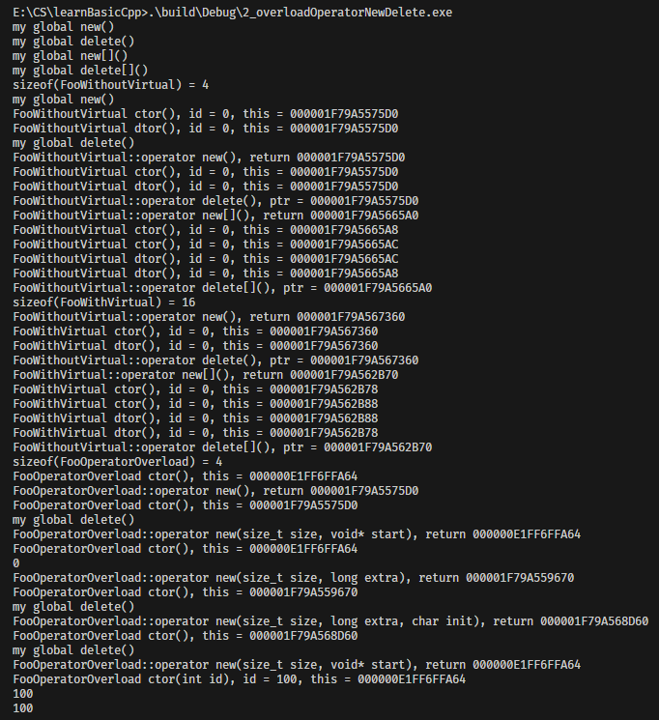
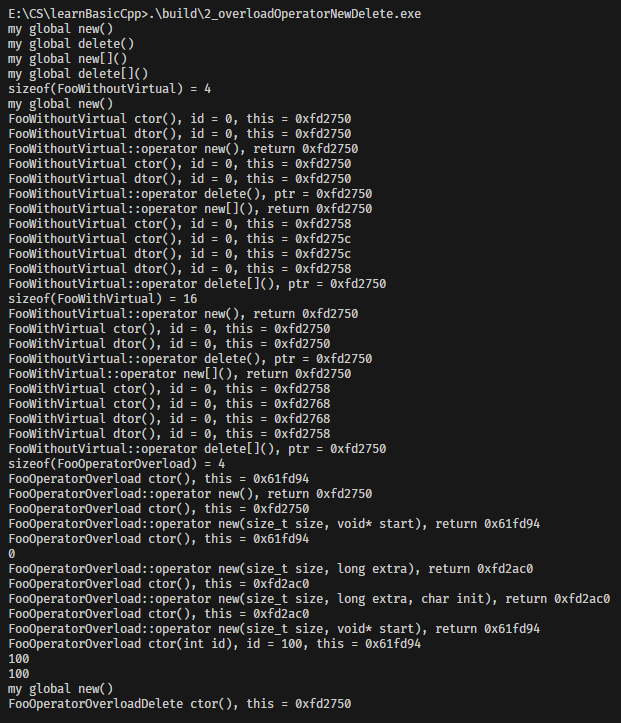
[add]7_newhandlerAndNothrow

diff --git a/MemoryManagement_Houjie/2_overloadOperatorNewDelete/main.cpp b/MemoryManagement_Houjie/2_overloadOperatorNewDelete/main.cpp
@@ -141,6 +141,28 @@ public:
     }
 };
 
+class FooOperatorOverloadDefaultDelete
+{
+private:
+    int id;
+
+public:
+    FooOperatorOverloadDefaultDelete() : id(0) { cout << "FooOperatorOverloadDelete ctor(), this = " << this << endl; }
+
+public:
+// 要求编译器生成默认的类成员版 operator new
+#ifdef _MSC_VER
+    static void *operator new(std::size_t size) noexcept(false);
+    static void operator delete(void *ptr) noexcept;
+#endif
+    // 错误写法：测试g++和MSVC都编译报错
+    // static void *operator new(size_t size) noexcept(false) = default; // default;
+    // static void operator delete(void *ptr) noexcept = default;        // default;
+
+    static void *operator new[](size_t size) noexcept(false) = delete; // delete;
+    static void operator delete[](void *ptr) noexcept = delete;
+};
+
 int main()
 {
     {
@@ -192,6 +214,13 @@ int main()
         FooOperatorOverload *p5 = new (&start) FooOperatorOverload(100);
         std::cout << p2->GetId() << std::endl;
         std::cout << p5->GetId() << std::endl;
+    }
+
+    {
+        FooOperatorOverloadDefaultDelete *p1 = new FooOperatorOverloadDefaultDelete; // 编译错误，operator new被删除了
+        delete p1;                                                                   // 编译错误，operator delete被删除了
+        // FooOperatorOverloadDefaultDelete *p2 = new FooOperatorOverloadDefaultDelete[3]; // 编译错误，operator new被删除了
+        // delete[] p2;                                                                    // 编译错误，operator delete被删除了
     }
     return 0;
 }

diff --git a/MemoryManagement_Houjie/7_newhandlerAndNothrow/main.cpp b/MemoryManagement_Houjie/7_newhandlerAndNothrow/main.cpp
@@ -1,0 +1,32 @@
+#include <iostream>
+#include <string>
+#include <new>
+#include <cassert>
+using namespace std;
+
+void noMoreMemory()
+{
+    cout << "Out of memory!" << endl;
+    abort();
+}
+
+int main()
+{
+    // gcc显示Out of memory, msvc没有显示
+    set_new_handler(noMoreMemory);
+
+    {
+        int *p = new (nothrow) int[1000000000000]; // 试图分配一个非常大的数组，可能会失败
+        if (p == nullptr)
+        {
+            cout << "nothrow new failed to allocate memory." << endl;
+        }
+    }
+
+    {
+        int *p = new int[1000000000000]; // 试图分配一个非常大的数组，可能会失败
+        assert(p != nullptr);            // 如果分配失败，noMoreMemory会被调用，程序会终止
+    }
+
+    return 0;
+}

diff --git a/MemoryManagement_Houjie/7_newhandlerAndNothrow/Note.md b/MemoryManagement_Houjie/7_newhandlerAndNothrow/Note.md
@@ -1,0 +1,159 @@
+`new_handler` 是 C++ 标准库提供的**内存分配失败回调机制**：当 `operator new`（或 `new[]`）尝试分配内存失败时，会调用用户注册的自定义回调函数（`new_handler`），而非直接抛出异常（C++98）或返回 `nullptr`（C++11 前的非标准行为）。
+
+核心接口：
+```cpp
+// 头文件：<new>
+namespace std {
+    typedef void (*new_handler)(); // new_handler 是函数指针类型
+    new_handler set_new_handler(new_handler p) noexcept; // 注册回调函数
+    new_handler get_new_handler() noexcept; // 获取当前注册的回调函数
+}
+```
+
+
+## 1. new_handler 工作原理
+### 1.1 核心流程
+```mermaid
+graph TD
+    A["调用 new/ new[] 分配内存"] --> B{"内存分配是否成功？"}
+    B -- 是 --> C["返回内存地址，程序继续"]
+    B -- 否 --> D{"是否注册了 new_handler？"}
+    D -- 否 --> E["C++98：抛出 bad_alloc 异常；C++11+：若为 nothrow new 则返回 nullptr"]
+    D -- 是 --> F["调用注册的 new_handler 函数"]
+    F --> G{"new_handler 是否释放了内存？"}
+    G -- 是 --> A["重新尝试分配内存"]
+    G -- 否 --> E["抛出 bad_alloc 异常 / 终止程序"]
+```
+
+### 1.2 代码核心逻辑解析
+```cpp
+#include <iostream>
+#include <string>
+#include <new>
+#include <cassert>
+using namespace std;
+
+// 自定义 new_handler 回调函数：内存分配失败时执行
+void noMoreMemory()
+{
+    cout << "Out of memory!" << endl;
+    abort(); // 终止程序，不再尝试重新分配
+}
+
+int main()
+{
+    // 注册自定义 new_handler：替换默认的空回调
+    set_new_handler(noMoreMemory);
+
+    // 第一次尝试分配超大内存（1000000000000 个 int）
+    int *p = new int[1000000000000]; 
+    assert(p != nullptr); // 若分配失败，noMoreMemory 会被调用，abort 终止程序
+
+    // 第二次尝试分配更大的内存（1000000000000000000 个 int）
+    p = new int[1000000000000000000]; 
+    assert(p != nullptr);
+    return 0;
+}
+```
+
+#### 关键函数说明
+| 函数                            | 作用                                                                                       |
+| ------------------------------- | ------------------------------------------------------------------------------------------ |
+| `set_new_handler(noMoreMemory)` | 将 `noMoreMemory` 注册为全局内存分配失败的回调函数，返回之前的 `new_handler`（此处未使用） |
+| `noMoreMemory()`                | 分配失败时打印提示并调用 `abort()` 终止程序（无内存释放逻辑，因此不会重试分配）            |
+| `abort()`                       | 直接终止进程，触发 SIGABRT 信号，不会执行后续代码（如 `assert`）                           |
+
+
+
+
+
+## 2. new_handler 的核心使用场景与最佳实践
+### 2.1 典型使用场景
+1. **内存不足时的优雅处理**：
+   在 `new_handler` 中释放缓存、关闭无用资源，尝试为后续分配腾出内存：
+   ```cpp
+   void noMoreMemory() {
+       // 释放全局缓存
+       globalCache.clear();
+       // 关闭临时文件句柄
+       closeTempFiles();
+       // 若仍无内存，抛出异常
+       throw bad_alloc();
+   }
+   ```
+2. **日志记录与监控**：
+   记录内存分配失败的时间、分配大小，便于定位内存泄漏或资源耗尽问题。
+3. **程序优雅退出**：
+   保存程序状态、释放关键资源，避免直接崩溃导致数据丢失。
+
+### 2.2 最佳实践
+1. **避免在 new_handler 中无限循环**：
+   若 `new_handler` 未释放内存，会导致 `operator new` 反复调用回调，最终程序卡死。建议在回调中仅尝试 1-2 次释放，失败则抛出异常/终止。
+2. **区分 C++ 版本差异**：
+   - C++98：`operator new` 分配失败默认抛出 `bad_alloc`，`new_handler` 是唯一的预异常处理机会；
+   - C++11+：支持 `nothrow new`（`new (nothrow) T`），分配失败返回 `nullptr`，不会触发 `new_handler`。
+3. **跨平台适配**：
+   - Linux/macOS（g++）：依赖物理内存检查，易触发 `new_handler`；
+   - Windows（MSVC）：依赖虚拟内存，需写入数据才会触发实际内存分配。
+4. **注册/注销成对使用**：
+   若仅需在某段代码中使用自定义 `new_handler`，使用后应恢复默认：
+   ```cpp
+   new_handler oldHandler = set_new_handler(noMoreMemory);
+   // 执行内存密集型操作
+   int *p = new int[1000000000];
+   // 恢复默认 new_handler
+   set_new_handler(oldHandler);
+   ```
+
+### 2.3 常见误区
+1. **认为 new_handler 一定会被调用**：
+   仅当 `operator new` 判定分配失败时才会触发，MSVC 的虚拟内存机制会规避这一判定。
+2. **assert(p != nullptr) 能检测分配失败**：
+   若 `new_handler` 中调用 `abort()`，`assert` 不会执行；若未终止程序，`operator new` 可能抛出 `bad_alloc`，`assert` 同样不会执行。
+3. **超大数值分配一定会失败**：
+   取决于编译器和操作系统的内存管理策略，MSVC 会优先分配虚拟地址。
+
+## 3. new(nothrow)
+
+`new (nothrow) `是 C++ 标准提供的不抛异常版本的内存分配运算符。其核心作用是：
++ 告诉 `operator new`：分配内存失败时不要抛出异常；
++ 要求 `operator new`：分配失败时返回 `nullptr` 作为 “分配失败” 的标识。
+`nothrow`对应的重载版本代码是：
+
+```cpp
+// 普通版本（抛异常）
+void* operator new(std::size_t size);
+// nothrow 版本（不抛异常）
+void* operator new(std::size_t size, const std::nothrow_t&) noexcept;
+
+// 数组版本同理
+void* operator new[](std::size_t size);
+void* operator new[](std::size_t size, const std::nothrow_t&) noexcept;
+```
+
++ 普通 `new`：分配失败 → 调用 `new_handler` → 仍失败 → 抛出 std::bad_alloc；
++ `new (nothrow)`：分配失败 → 调用 `new_handler` → 仍失败 → 返回 nullptr（不抛异常）。
+
+注意`nothrow` 仅保证「内存分配」阶段不抛异常，构造函数、析构函数抛出的异常仍会正常传播。`new (nothrow) `仍会先调用 `new_handler`，仅当 `new_handler` 无法解决内存不足时，才返回 `nullptr`（而非直接返回）。
+
+
+## 4. 核心总结
+1. **new_handler 核心作用**：内存分配失败时的自定义回调，可用于释放资源、记录日志、优雅退出；
+2. **跨编译器差异原因**：
+   - g++：严格检查物理内存，超大分配直接失败，触发 `new_handler`，输出 `Out of memory!`；
+   - MSVC：依赖 Windows 虚拟内存延迟提交，仅分配地址不占用物理内存，不触发回调，无输出；
+3. **触发 MSVC 的 new_handler**：需写入分配的内存（强制物理内存分配），或限制虚拟内存大小；
+4. **最佳实践**：
+   - 避免无限循环，合理释放内存；
+   - 跨平台适配时考虑虚拟内存机制；
+   - 注册/注销 `new_handler` 成对使用。
+
+`new_handler` 是 C++ 内存管理的重要补充机制，但需注意编译器和操作系统的差异，避免依赖单一平台的表现编写代码。
+
+5. **nothrow 的核心作用**：作为标记传递给 `operator new`，要求内存分配失败时返回 `nullptr`，而非抛出 `std::bad_alloc` 异常。使用时要包含头文件 `<new>`。仅保证内存分配不抛异常，构造函数异常仍会传播；分配失败时通过 `p == nullptr` 判断，无需 `try-catch`；释放时用普通 `delete/delete[]`即可。
+
+
++ 7_newHandlerAndNothrow测试
+
+测试发现只有g++会报错`Out of memory`，但是MSVC不会报错。
+![](./image/resultNewhandlerAndNothrow.png)

diff --git a/MemoryManagement_Houjie/2_overloadOperatorNewDelete/Note.md b/MemoryManagement_Houjie/2_overloadOperatorNewDelete/Note.md
@@ -222,8 +222,33 @@ void* operator new(size_t size) {
     return aligned_alloc(16, (size + 15) & ~15);
 }
 ```
+## 5. 其他
 
-## 5. 核心总结
+### 5.1 重载 operator new/delete 时可以使用default和delete嘛
+
+语法示例：
+
+```cpp
+class Test {
+public:
+    // 要求编译器生成默认的类成员版 operator new
+#ifdef _MSC_VER
+    static void* operator new(size_t size) noexcept(false);
+    static void operator delete(void* ptr) noexcept;
+#endif
+    // 数组版本同理
+    static void* operator new[](size_t size) noexcept(false) = delete;
+    static void operator delete[](void* ptr) noexcept = delete;
+
+    int data = 10;
+};
+```
+
+ `operator new/delete`经过测试不能使用`default`，在MSVC可以直接声明不定义，这样就使用默认的版本，但是在g++上就不能这样声明不定义，可以去掉就不会报错。而使用`delete`是合法的，使用了`delete`相关的`new`/`delete`就不能使用了。上面的`noexcept(false)`表示可能慧抛出异常。
+
+
+
+## 6. 核心总结
 1. `operator new/delete` 是 `new/delete` 关键字的底层实现，分为普通版（单个对象）和数组版（`new[]/delete[]`）；
 2. 重载分为「全局版」（作用于所有对象）和「类内版」（仅作用于该类对象），类内版本优先级更高；
 3. 调用规则：`new T` → `operator new(sizeof(T))` + 构造函数；`delete p` → 析构函数 + `operator delete(p)`；

diff --git a/README.md b/README.md
@@ -37,6 +37,8 @@ cmake --build build
 + [x] [3_perClassAllocator](./MemoryManagement_Houjie/3_perClassAllocator) 
 + [x] [4_perClassAllocator2](./MemoryManagement_Houjie/4_perClassAllocator2)
 + [x] [5_staticAllocator](./MemoryManagement_Houjie/5_staticAllocator)
++ [x] [6_staticAllocatorMacro](./MemoryManagement_Houjie/6_staticAllocatorMacro)
++ [x] [7_newhandlerAndNothrow](./MemoryManagement_Houjie/7_newhandlerAndNothrow)  
 ## Reference
 
 ### Blogs and Books
